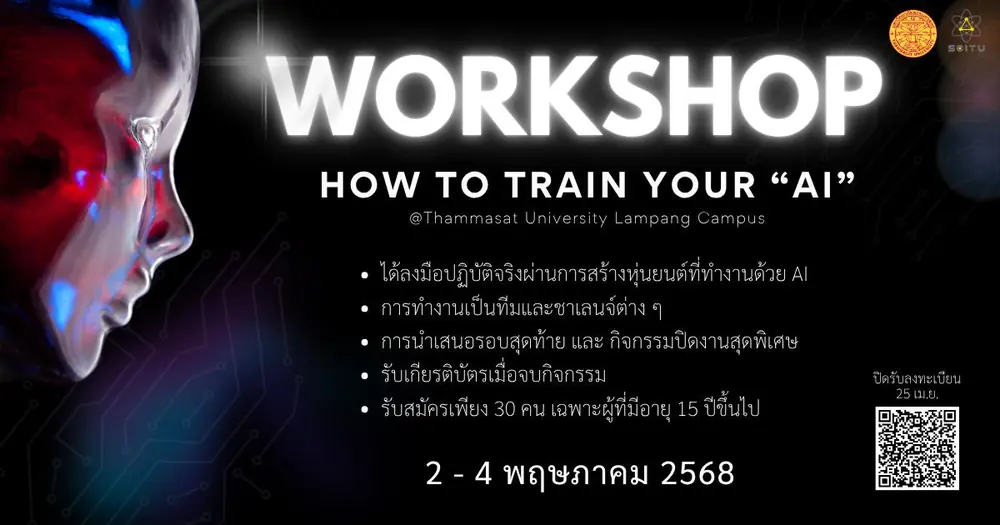
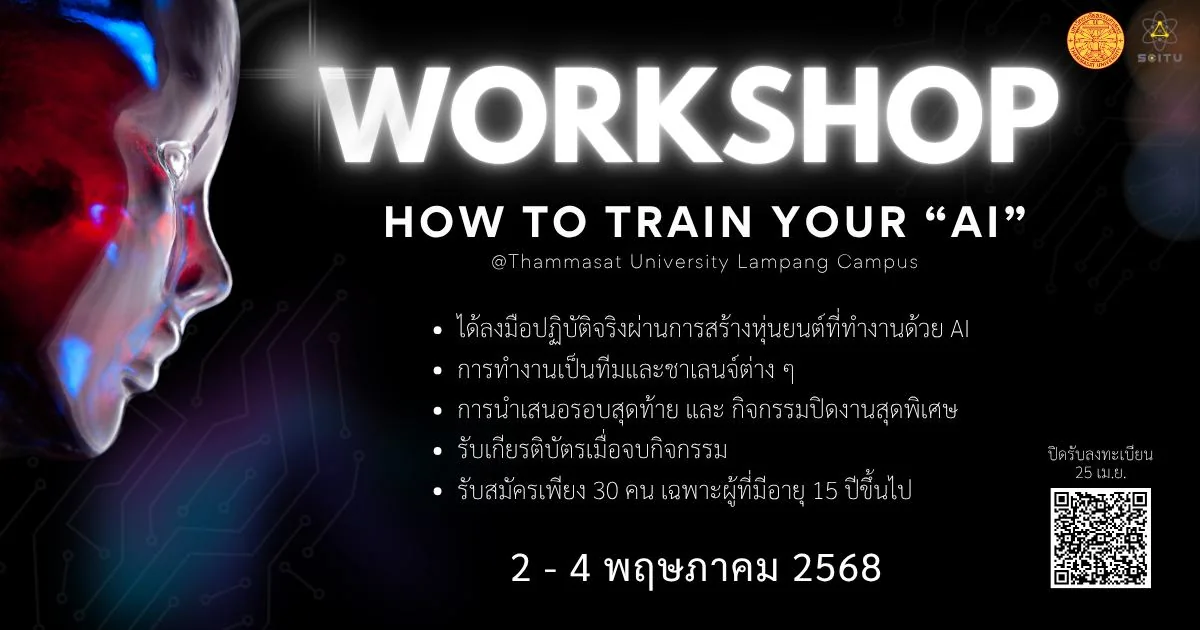
INITS: full-width, sharper workshop poster
Use the 1200px original from the portfolio PDF and stretch the poster
to the content width so it lines up with the name tags and group photo.

Changed region(s): [[0.868, 0.7924, 0.961, 0.9143], [0.527, 0.579, 0.558, 0.6095], [0.465, 0.64, 0.496, 0.6705]]

diff --git a/src/pages/cases/Inits.jsx b/src/pages/cases/Inits.jsx
@@ -52,7 +52,7 @@ export default function Inits({ project }) {
           </p>
         </div>
         <figure className="mt">
-          <Img name="inits-workshop-poster" alt="Workshop poster for How to Train Your AI" zoom style={{ borderRadius: "14px" }} />
+          <Img name="inits-workshop-poster" alt="Workshop poster for How to Train Your AI" zoom style={{ width: "100%", borderRadius: "14px" }} />
         </figure>
         <div className="lanyards mt">
           {TAGS.map((t) => (

diff --git a/src/data.js b/src/data.js
@@ -105,7 +105,7 @@ const IMG_SIZES = {
   "art-staff-costumes": [800, 800],
   "art-stage": [1000, 562],
   "art-staff-night": [900, 675],
-  "inits-workshop-poster": [1000, 525],
+  "inits-workshop-poster": [1200, 630],
   "inits-nametag-dark": [341, 500],
   "inits-nametag-light": [341, 500],
   "inits-workshop-group": [1300, 866],
